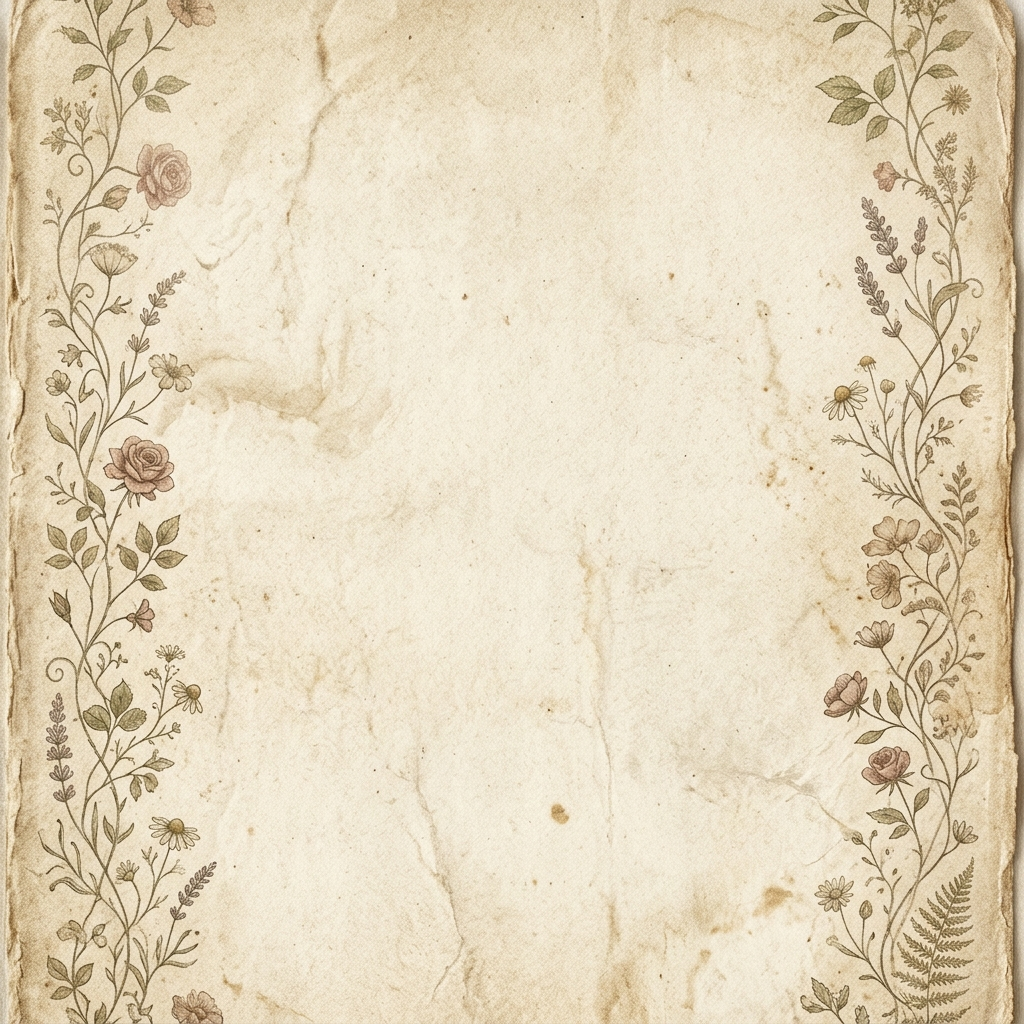
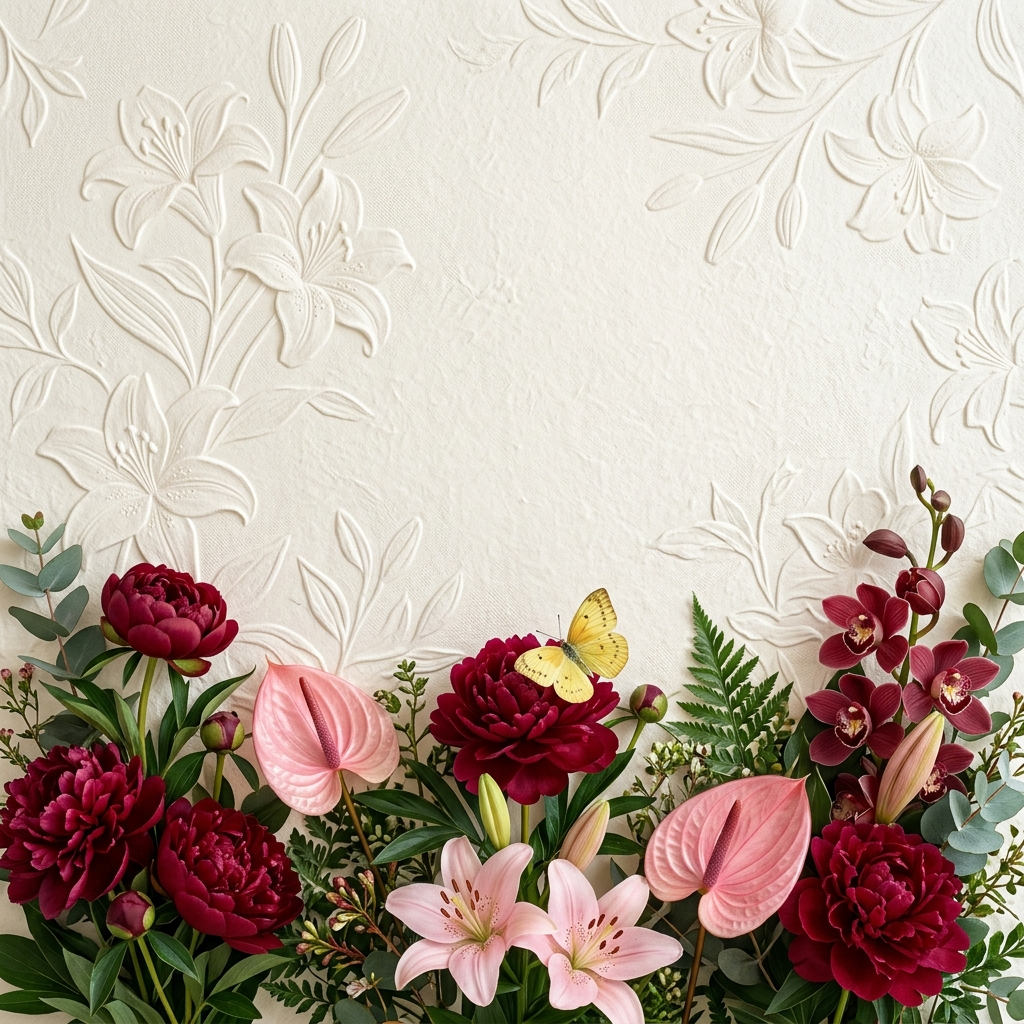
style: update background image to high definition floral paper and anchor to bottom center

diff --git a/src/app/globals.css b/src/app/globals.css
@@ -29,7 +29,7 @@
   .bg-floral-paper {
     background-image: url("/bg-paper.png");
     background-size: cover;
-    background-position: center;
+    background-position: bottom center;
     background-attachment: fixed;
   }
 